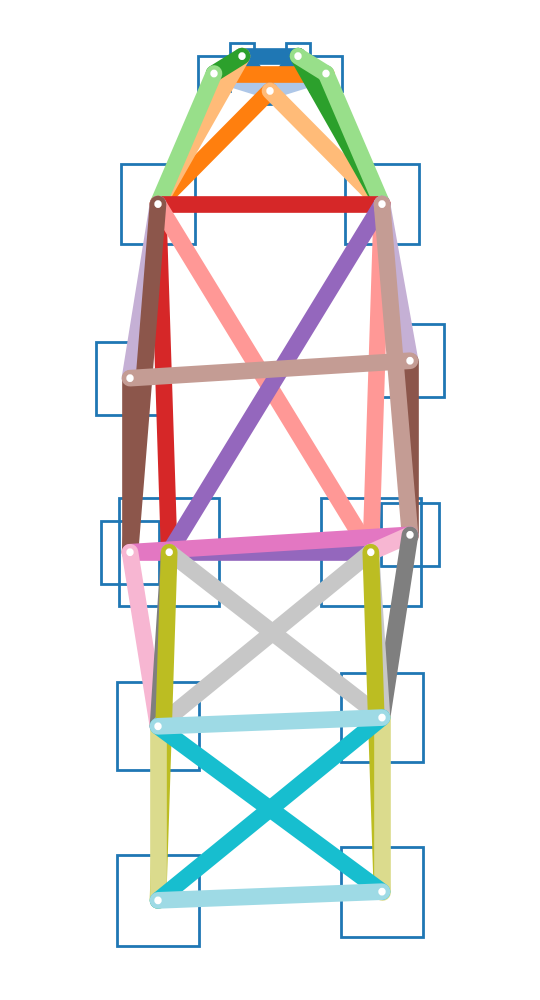
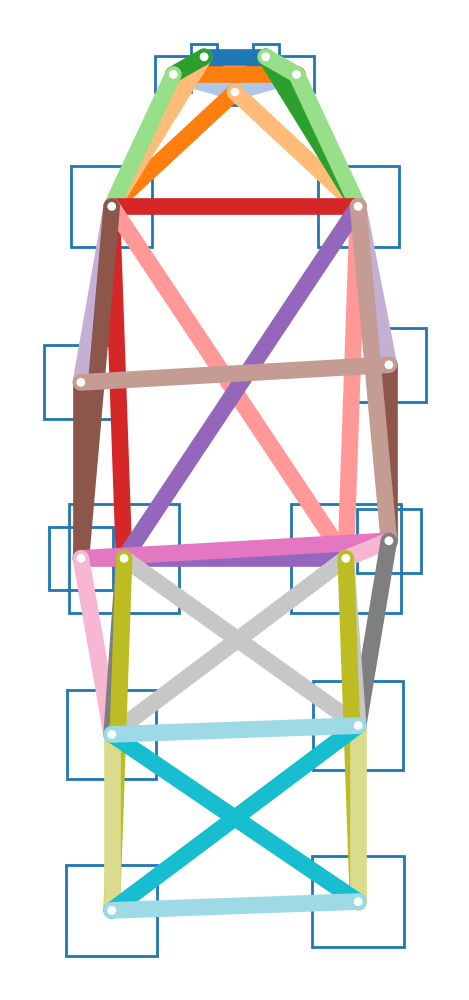
improve pose drawing

diff --git a/openpifpaf/data.py b/openpifpaf/data.py
@@ -62,6 +62,27 @@ COCO_UPRIGHT_POSE = np.array([
 ])
 
 
+COCO_DAVINCI_POSE = np.array([
+    [0.0, 9.3, 2.0],  # 'nose',            # 1
+    [-0.35, 9.7, 2.0],  # 'left_eye',        # 2
+    [0.35, 9.7, 2.0],  # 'right_eye',       # 3
+    [-0.7, 9.5, 2.0],  # 'left_ear',        # 4
+    [0.7, 9.5, 2.0],  # 'right_ear',       # 5
+    [-1.4, 8.0, 2.0],  # 'left_shoulder',   # 6
+    [1.4, 8.0, 2.0],  # 'right_shoulder',  # 7
+    [-3.3, 9.0, 2.0],  # 'left_elbow',      # 8
+    [3.3, 9.2, 2.0],  # 'right_elbow',     # 9
+    [-4.5, 10.5, 2.0],  # 'left_wrist',      # 10
+    [4.5, 10.7, 2.0],  # 'right_wrist',     # 11
+    [-1.26, 4.0, 2.0],  # 'left_hip',        # 12
+    [1.26, 4.0, 2.0],  # 'right_hip',       # 13
+    [-2.0, 2.0, 2.0],  # 'left_knee',       # 14
+    [2.0, 2.1, 2.0],  # 'right_knee',      # 15
+    [-2.4, 0.0, 2.0],  # 'left_ankle',      # 16
+    [2.4, 0.1, 2.0],  # 'right_ankle',     # 17
+])
+
+
 HFLIP = {
     'left_eye': 'right_eye',
     'right_eye': 'left_eye',
@@ -126,42 +147,40 @@ COCO_PERSON_SIGMAS = [
 ]
 
 
-def draw_skeletons():
+def draw_skeletons(pose, margin=0.5):
     from . import show  # pylint: disable=import-outside-toplevel
     from .decoder import Annotation  # pylint: disable=import-outside-toplevel
 
     show.KeypointPainter.show_joint_scales = True
 
     scale = np.sqrt(
-        (np.max(COCO_UPRIGHT_POSE[:, 0]) - np.min(COCO_UPRIGHT_POSE[:, 0]))
-        * (np.max(COCO_UPRIGHT_POSE[:, 1]) - np.min(COCO_UPRIGHT_POSE[:, 1]))
+        (np.max(pose[:, 0]) - np.min(pose[:, 0]))
+        * (np.max(pose[:, 1]) - np.min(pose[:, 1]))
     )
     keypoint_painter = show.KeypointPainter(color_connections=True,
-                                            markersize=1, linewidth=6)
+                                            markersize=3, linewidth=6)
 
-    with show.canvas('docs/skeleton_coco.png', figsize=(2.7, 5)) as ax:
-        ax.set_axis_off()
-        ax.set_xlim(-3.0, 3.0)
-        ax.set_ylim(-0.8, 10.0)
-        ann = Annotation(keypoints=COCO_KEYPOINTS, skeleton=COCO_PERSON_SKELETON)
-        ann.set(COCO_UPRIGHT_POSE, np.array(COCO_PERSON_SIGMAS) * scale)
-        keypoint_painter.annotation(ax, ann)
+    def draw_ann(filename, ann):
+        xlim = ann.bbox()[0] - margin, ann.bbox()[0] + ann.bbox()[2] + margin
+        ylim = ann.bbox()[1] - margin, ann.bbox()[1] + ann.bbox()[3] + margin
+        fig_w = 5.0 / (ylim[1] - ylim[0]) * (xlim[1] - xlim[0])
+        with show.canvas(filename, figsize=(fig_w, 5), nomargin=True) as ax:
+            ax.set_axis_off()
+            ax.set_xlim(*xlim)
+            ax.set_ylim(*ylim)
+            keypoint_painter.annotation(ax, ann)
 
-    with show.canvas('docs/skeleton_kinematic_tree.png', figsize=(2.7, 5)) as ax:
-        ax.set_axis_off()
-        ax.set_xlim(-3.0, 3.0)
-        ax.set_ylim(-0.8, 10.0)
-        ann = Annotation(keypoints=COCO_KEYPOINTS, skeleton=KINEMATIC_TREE_SKELETON)
-        ann.set(COCO_UPRIGHT_POSE, np.array(COCO_PERSON_SIGMAS) * scale)
-        keypoint_painter.annotation(ax, ann)
+    ann = Annotation(keypoints=COCO_KEYPOINTS, skeleton=COCO_PERSON_SKELETON)
+    ann.set(pose, np.array(COCO_PERSON_SIGMAS) * scale)
+    draw_ann('docs/skeleton_coco.png', ann)
 
-    with show.canvas('docs/skeleton_dense.png', figsize=(2.7, 5)) as ax:
-        ax.set_axis_off()
-        ax.set_xlim(-3.0, 3.0)
-        ax.set_ylim(-0.8, 10.0)
-        ann = Annotation(keypoints=COCO_KEYPOINTS, skeleton=DENSER_COCO_PERSON_SKELETON)
-        ann.set(COCO_UPRIGHT_POSE, np.array(COCO_PERSON_SIGMAS) * scale)
-        keypoint_painter.annotation(ax, ann)
+    ann = Annotation(keypoints=COCO_KEYPOINTS, skeleton=KINEMATIC_TREE_SKELETON)
+    ann.set(pose, np.array(COCO_PERSON_SIGMAS) * scale)
+    draw_ann('docs/skeleton_kinematic_tree.png', ann)
+
+    ann = Annotation(keypoints=COCO_KEYPOINTS, skeleton=DENSER_COCO_PERSON_SKELETON)
+    ann.set(pose, np.array(COCO_PERSON_SIGMAS) * scale)
+    draw_ann('docs/skeleton_dense.png', ann)
 
 
 def print_associations():
@@ -171,4 +190,4 @@ def print_associations():
 
 if __name__ == '__main__':
     print_associations()
-    draw_skeletons()
+    draw_skeletons(COCO_UPRIGHT_POSE)

diff --git a/openpifpaf/show.py b/openpifpaf/show.py
@@ -14,11 +14,17 @@ except ImportError:
 
 
 @contextmanager
-def canvas(fig_file=None, show=True, dpi=200, **kwargs):
+def canvas(fig_file=None, show=True, dpi=200, nomargin=False, **kwargs):
     if 'figsize' not in kwargs:
         # kwargs['figsize'] = (15, 8)
         kwargs['figsize'] = (10, 6)
-    fig, ax = plt.subplots(**kwargs)
+
+    if nomargin:
+        fig = plt.figure(**kwargs)
+        ax = plt.Axes(fig, [0.0, 0.0, 1.0, 1.0])
+        fig.add_axes(ax)
+    else:
+        fig, ax = plt.subplots(**kwargs)
 
     yield ax
 
@@ -131,7 +137,7 @@ class KeypointPainter(object):
             if vv == 0.0:
                 continue
             ax.add_artist(matplotlib.patches.Circle(
-                (xx, yy), markersize_data,
+                (xx, yy), markersize_data / 2.0,
                 color='white' if self.color_connections else color,
                 edgecolor='k' if self.highlight_invisible else None,
                 zorder=2,
@@ -143,7 +149,7 @@ class KeypointPainter(object):
                 if vv == 0.0:
                     continue
                 ax.add_artist(matplotlib.patches.Circle(
-                    (xx, yy), self.markersize,
+                    (xx, yy), markersize_data,
                     color=color,
                     edgecolor=color,
                     zorder=2,
